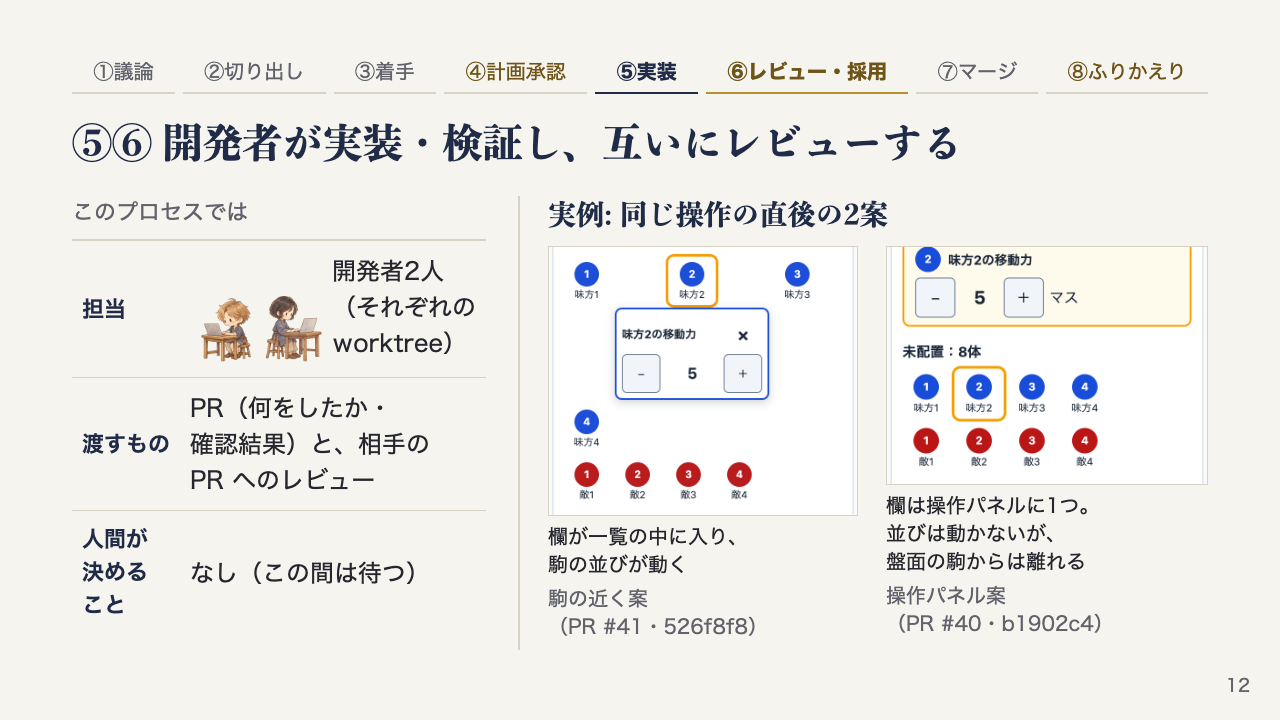
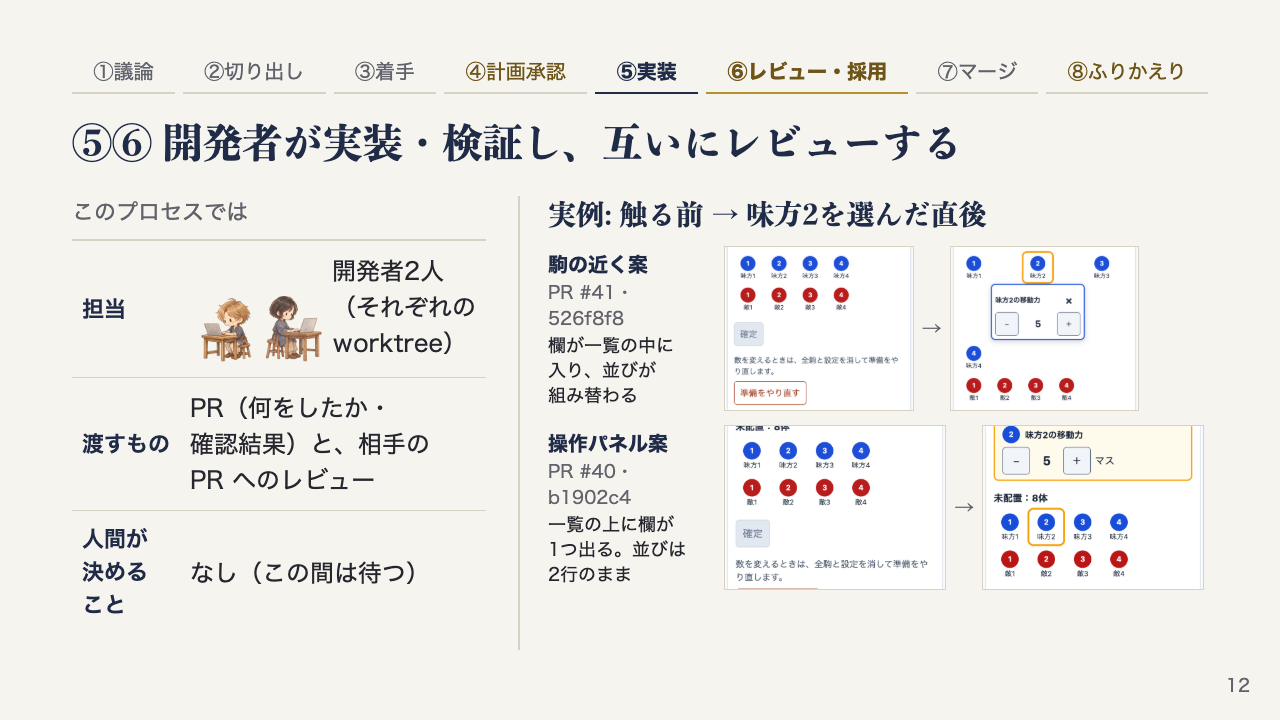
docs: add before-selection screenshots to the comparison on slide 12 (#17)

Changed region(s): [[0.4062, 0.275, 0.9375, 0.8861], [0.9062, 0.6417, 0.9375, 0.6722], [0.9062, 0.3361, 0.9375, 0.3667]]

diff --git a/themes/paper.css b/themes/paper.css
@@ -350,3 +350,11 @@ table.duty.loop td { padding: 9px 10px; }
 table.duty.loop tr.decide td { font-size: 22px; }
 table.duty.loop b { color: var(--indigo); }
 table.duty.loop tr.decide b { color: var(--gold-text); }
+/* 2案の「触る前 → 選んだ直後」を案ごとに1行で並べる（12枚目）。左に案名・版・違いの説明、右に前後の画像 */
+.shots.phone.pair { flex-direction: column; gap: 14px; }
+.shots.phone.pair .shot { display: flex; align-items: center; gap: 8px; }
+.shots.phone.pair .shot > div { flex: 0 0 168px; }
+.shots.phone.pair .shot p { font-size: 18px; margin-top: 2px; }
+.shots.phone.pair .shot .name { font-size: 20px; font-weight: 700; color: var(--indigo); }
+.shots.phone.pair img { flex: none; height: 165px; width: auto; max-height: none; }
+.shots.phone.pair .arrow { flex: none; align-self: center; width: 20px; padding: 0; color: var(--muted); font-size: 20px; }

diff --git a/docs/design.md b/docs/design.md
@@ -111,7 +111,7 @@ paginate: true
 - **担当の人物**: `<div class="actors">` の中に `<div class="actor">`（`<img class="actor-figure">` 72×72px と `<span class="actor-name">`）。開発者は `actor-figure` を2つ続ける。人間（レナ・ヨナ）は `<img class="people-small">`（120×80px、3:2）。金色を役割の人物の行に使わないため、人間の挿絵は担当の行か判断の行（`decide`）に置き、役割の人物は判断の行に置かない
 - **人物にしない仕組み**: 3つの役割に含めない仕組み（GitHub・Orca の起動係）は、担当の行に `<div class="actor-box">` の文字の枠で置く（1行目に名前、`<span>` に短い補足）。人物の絵やロゴは使わない（10枚目: PO → GitHub（Issue と「開発可」）→ Orca の起動係（定期実行で起動）→ 開発チーム。Issue #17 で追加）
 - **比較画像**: `<div class="shots">` に `<div class="shot">`（`<img>` と説明 `<p>`、版 `<p class="ver">`）。画像の中の文字は読ませず、違いを説明文で書く
-- **スマホ幅の画面**: 縦長の画面の切り抜きは `<div class="shots phone">` にする（16:9 の枠に押し込まず、縦横比のまま高さ 270px までで収める）。本文の下に小さく置くときは `shots phone short`（高さ 200px まで、説明を画像の右に並べる。説明と版は `<div>` で包む。7枚目）。比較画像を大きく見せるページだけ、右の列を `<div class="example wide">`（660px）にする（12枚目。各画像は幅約307px、左の表は約440px）。Issue #17 で追加
+- **スマホ幅の画面**: 縦長の画面の切り抜きは `<div class="shots phone">` にする（16:9 の枠に押し込まず、縦横比のまま高さ 270px までで収める）。本文の下に小さく置くときは `shots phone short`（高さ 200px まで、説明を画像の右に並べる。説明と版は `<div>` で包む。7枚目）。比較画像を大きく見せるページだけ、右の列を `<div class="example wide">`（660px）にする。案ごとに「触る前 → 選んだ直後」を並べるときは `shots phone pair` にし、`.shot` の中に説明（`<div>` に案名 `<p class="name">`・版 `<p class="ver">`・違いの説明 `<p>`）、前の画像、`<span class="arrow">→</span>`、後の画像の順に書く（1案が1行。画像の高さは 165px にそろえる。12枚目: 1280×720 で右の列は幅690px、画像は駒の近く案 190×165px・操作パネル案 222×165px、左の表は幅410px、右の列の下端 590px）。Issue #17 で追加
 - **往復の表**: 1ページに6行の表が要るときは `<table class="duty loop">`。高さに収めるため 22px・上下 9px の余白にしている（13枚目。本文の下端の上限 664px に対し、Orca のブラウザで測ったページ内の下端は 720px 基準で 636px。Issue #17 の前提追加後）
 
 上部の段階の行と見出しで約 190px を使うので、表と実例の列に使える高さは約 470px（Issue #17 の前提追加後、9〜14枚目の下端の実測は 555〜650px。下端が最も下にあるのは12枚目）。項目を足したら手元の画像と CI の PDF で確かめる。
@@ -135,7 +135,7 @@ paginate: true
 |---|---|
 | [human-decisions.png](../slides/assets/issue-5-codex/human-decisions.png) | Issue #5 で新規生成し縮小した透過 PNG（記録は [説明書](design-samples/issue-5-codex.md)）。Issue #8 では本編5枚目からそのまま再利用し、Issue #9 では次章の工程のページ（Issue #17 の前提追加後の9・11・14枚目）に小さく（120×80px）再利用した。再生成・編集はしていない |
 | [issue-5-compare/](../slides/assets/issue-5-compare/) の3枚 | Issue #17 で次章の実例を差し替えたため、本編からは参照していない。#9 の比較記録として残す。Issue #9 で、次章の比較用に作った縮小画像。`pr6-c332c37-human.png`・`pr7-b3e0c3e-human.png` は、Issue #5 の各 PR の当時の版を `git archive` で取り出し、`npx marp --no-stdin --allow-local-files --images png` で元の5枚目（人間の判断のページ）を 1280×720 に描いた画像。`pr6-3480008-human.png` は採用修正版の記録 `docs/design-samples/issue-5-codex-preview/03-human.png`（同じ手順で 3480008 から描いた画像とバイト単位で一致）。どれも `sips -z 360 640` で 640×360 に縮小しただけ。ファイル名の SHA が版を示す |
-| [issue-37-board/](../slides/assets/issue-37-board/) の3枚 | Issue #17 で、次章の実例（overstrata-board #37）用に撮影した画面。公開リポジトリを一時ディレクトリへ新たに clone し、各版を git worktree で取り出して `npm ci --ignore-scripts` → `npx vite --port 5290〜5292 --strictPort` で起動した（Docker と元プロジェクトの作業環境は使っていない。撮影後に停止）。Playwright（同リポジトリの `@playwright/test` 1.64.1）とインストール済みの Chrome で、表示幅 375×667・deviceScaleFactor 2 で撮影し、範囲を切り抜いた。`board-c276d11.png`: #37 着手前の main `c276d11` で味方2・敵2を用意し、味方1を (3,4)・味方2を (2,7)・敵1を (8,3)・敵2を (9,6) に置いて味方1を選んだ状態の盤面（CSS px で x0・y105・375×351）。`pr41-526f8f8.png`・`pr40-b1902c4.png`: 比較した版（PR #41 `526f8f8`／PR #40 `b1902c4`）で味方4・敵4を用意し、未配置の味方2を選んだ直後。設定欄と未配置ボタンの外接矩形に余白12px（#41 は x12・y693・351×305。#40 は x12・y641・351×305 で撮り、下の確定ボタンが写らないよう `sips -c 520 702 --cropOffset 0 0` で上から 351×260 に切った）。縮小・注記・色付けはしていない。採用版 `629709a` は `b1902c4` との差分が README だけなので、別に撮っていない。ファイル名の SHA が版を示す |
+| [issue-37-board/](../slides/assets/issue-37-board/) の5枚 | Issue #17 で、次章の実例（overstrata-board #37）用に撮影した画面。公開リポジトリを一時ディレクトリへ新たに clone し、各版を git worktree で取り出して `npm ci --ignore-scripts` → `npx vite --port 5290〜5292 --strictPort` で起動した（Docker と元プロジェクトの作業環境は使っていない。撮影後に停止）。Playwright（同リポジトリの `@playwright/test` 1.64.1）とインストール済みの Chrome で、表示幅 375×667・deviceScaleFactor 2 で撮影し、範囲を切り抜いた。`board-c276d11.png`: #37 着手前の main `c276d11` で味方2・敵2を用意し、味方1を (3,4)・味方2を (2,7)・敵1を (8,3)・敵2を (9,6) に置いて味方1を選んだ状態の盤面（CSS px で x0・y105・375×351）。`pr41-526f8f8.png`・`pr40-b1902c4.png`: 比較した版（PR #41 `526f8f8`／PR #40 `b1902c4`）で味方4・敵4を用意し、未配置の味方2を選んだ直後。設定欄と未配置ボタンの外接矩形に余白12px（#41 は x12・y693・351×305。#40 は x12・y641・351×305 で撮り、下の確定ボタンが写らないよう `sips -c 520 702 --cropOffset 0 0` で上から 351×260 に切った）。縮小・注記・色付けはしていない。`pr41-526f8f8-before.png`・`pr40-b1902c4-before.png`: 同じ版で味方4・敵4を用意した直後（まだ駒を選んでいない）。Issue #17 の実機確認で人間が「駒を触る前の画像もあるとわかりやすい」と伝えたため追加した。公開リポジトリを一時ディレクトリへ新たに clone し直し、同じ手順（`npm ci --ignore-scripts`、`npx vite --port 5290`・`5291 --strictPort`、同じ Playwright・Chrome・表示幅）で撮った。切り抜きは選んだ直後と同じ矩形（#41 は x12・y693・351×305、#40 は x12・y641・351×305 から `sips` で上の 351×260）。このとき撮り直した選んだ直後の2枚は、既存の2枚と画素が一致したので、既存のファイルをそのまま使っている。採用版 `629709a` は `b1902c4` との差分が README だけなので、別に撮っていない。ファイル名の SHA が版を示す |
 | [roles/po.png](../slides/assets/roles/po.png)・[team.png](../slides/assets/roles/team.png)・[developer-1.png](../slides/assets/roles/developer-1.png)・[developer-2.png](../slides/assets/roles/developer-2.png) | Issue #12 で新規生成した透過 PNG。生成は Codex CLI の組み込み画像生成（`codex exec` の `$imagegen`、2026-10-28）で、画風の参照に human-decisions.png、人物をそろえる参照に先に作った po.png（開発者2人目は developer-1.png も）を渡した。team.png は同じ生成の中で Codex が右手の位置を直している。編集は macOS の `sips -z 400 400` による 1254×1254 から 400×400 への縮小だけ（1:1 と透過を保持） |
 
 ## 役割の人物

diff --git a/slides/index.md b/slides/index.md
@@ -536,17 +536,27 @@ overstrata-board の実例:
     </table>
   </div>
   <div class="example wide">
-    <h3>実例: 同じ操作の直後の2案</h3>
-    <div class="shots phone">
+    <h3>実例: 触る前 → 味方2を選んだ直後</h3>
+    <div class="shots phone pair">
       <div class="shot">
-        <img src="assets/issue-37-board/pr41-526f8f8.png" alt="駒の近く案の画面。未配置の駒の一覧で味方2を選ぶと、一覧の中に移動力の設定欄が入り、味方4が次の行へ押し出されている">
-        <p>欄が一覧の中に入り、<br>駒の並びが動く</p>
-        <p class="ver">駒の近く案<br>（PR #41・526f8f8）</p>
+        <div>
+          <p class="name">駒の近く案</p>
+          <p class="ver">PR #41・<br>526f8f8</p>
+          <p>欄が一覧の中に<br>入り、並びが<br>組み替わる</p>
+        </div>
+        <img src="assets/issue-37-board/pr41-526f8f8-before.png" alt="駒の近く案の、駒を選ぶ前の画面。未配置の駒が味方4つ・敵4つの2行に並んでいる">
+        <span class="arrow">→</span>
+        <img src="assets/issue-37-board/pr41-526f8f8.png" alt="駒の近く案の、味方2を選んだ直後の画面。一覧の中に移動力の設定欄が入り、味方4が次の行へ押し出されている">
       </div>
       <div class="shot">
-        <img src="assets/issue-37-board/pr40-b1902c4.png" alt="操作パネル案の画面。一覧の上に移動力の設定欄が1つ出て、未配置の駒の並びは2行のまま変わらない">
-        <p>欄は操作パネルに1つ。<br>並びは動かないが、<br>盤面の駒からは離れる</p>
-        <p class="ver">操作パネル案<br>（PR #40・b1902c4）</p>
+        <div>
+          <p class="name">操作パネル案</p>
+          <p class="ver">PR #40・<br>b1902c4</p>
+          <p>一覧の上に欄が<br>1つ出る。並びは<br>2行のまま</p>
+        </div>
+        <img src="assets/issue-37-board/pr40-b1902c4-before.png" alt="操作パネル案の、駒を選ぶ前の画面。未配置の駒が味方4つ・敵4つの2行に並んでいる">
+        <span class="arrow">→</span>
+        <img src="assets/issue-37-board/pr40-b1902c4.png" alt="操作パネル案の、味方2を選んだ直後の画面。一覧の上に移動力の設定欄が1つ出て、未配置の駒の並びは2行のまま変わらない">
       </div>
     </div>
   </div>
@@ -557,8 +567,8 @@ overstrata-board の実例:
 ⑤ 実装では、開発者が自分の worktree で計画どおりに作り、確認コマンドを通して PR を出します。GitHub Actions でも同じ確認が回ります。この間、人間は待っています。
 ⑥ レビューでは、開発者2人が互いの PR を、受け入れ条件・仕様・回帰の観点でレビューします。
 今回は同じ Issue を2人が別々に作る「二重実装」で進めました。元テンプレートでは任意の進め方で、1本だけ実装する方法もあります。
-右は、2つの PR で同じ操作をした直後の画面です。駒を味方4・敵4で用意し、未配置の一覧で「味方2」を選びました。画像の中の文字は読まなくて大丈夫です。
-左の駒の近く案では、設定欄が一覧の中に入るので、駒の並びが組み替わり、味方4が次の行へ押し出されます。右の操作パネル案では、欄は一覧の上に1つ出て、並びは変わりません。その代わり、盤面に置いた駒からは離れます。
+右は、2つの PR で同じ操作をした前後の画面です。上の行が駒の近く案、下の行が操作パネル案で、それぞれ左が駒を触る前、右が未配置の一覧で「味方2」を選んだ直後です。触る前は、どちらも味方4つ・敵4つが2行に並んでいます。画像の中の文字は読まなくて大丈夫です。
+駒の近く案では、選ぶと設定欄が一覧の中に入るので、駒の並びが組み替わり、味方4が次の行へ押し出されます。操作パネル案では、欄は一覧の上に1つ出て、一覧は全体が下へずれますが、4つずつ2行の並びは変わりません。その代わり、盤面に置いた駒からは離れます。
 
 【実例】
 - PR #41（駒の近く案、Codex）は head 526f8f8、PR #40（操作パネル案、Claude Code）は head b1902c4。どちらも確認コマンド・E2E・CI が成功した
@@ -567,9 +577,9 @@ overstrata-board の実例:
   - PR #41 は満たす。ただし、一覧の並びが組み替わって誤タップにつながる点と、盤面では欄が周りの18マスを覆う点が、推奨の指摘になった
 - この画像は比べた時点の版で、採用後の版ではありません。製品名は担当を示すだけで、モデルの優劣を比べたものではありません
 
-画像: overstrata-board の各版（PR #41 は 526f8f8、PR #40 は b1902c4）を手元で起動し、スマホ幅 375×667（2倍の解像度）で、味方4・敵4を用意して未配置の味方2を選んだ直後に撮影。設定欄と未配置一覧を囲む範囲（横351 CSS px、縦は PR #41 が305・PR #40 が260）を切り抜いただけで、注記や色付けはしていない。
+画像: overstrata-board の各版（PR #41 は 526f8f8、PR #40 は b1902c4）を手元で起動し、スマホ幅 375×667（2倍の解像度）で撮影。各案2枚で、「触る前」は味方4・敵4を用意した直後（まだ駒を選んでいない）、「選んだ直後」はそこから未配置の味方2を選んだ直後。切り抜く範囲は、選んだ直後の設定欄と未配置一覧を囲む範囲（横351 CSS px、縦は PR #41 が305・PR #40 が260）で、触る前も同じ範囲で切り抜いた。そのため操作パネル案の触る前の画像は、一覧が上にある分、上端で「未配置：8体」の見出しが切れ、下に確定ボタンと説明文が写る。切り抜いただけで、注記や色付けはしていない。触る前の2枚は Issue #17 の実機確認（人間の「駒を触る前の画像もあるとわかりやすい」）を受けて追加した。
 
-【時間】約60秒（見積もり）
+【時間】約75秒（見積もり。触る前の画像の説明で60秒から増やした）
 
 【出典】
 一般的な手順:

diff --git a/docs/sources.md b/docs/sources.md
@@ -60,7 +60,7 @@ Issue #9 で採用した次章（main `19656aa`）は、元テンプレートの
 - [条件変更のコメント](https://github.com/dyamada-jaki/overstrata-board/issues/37#issuecomment-6365106903)と [仕様更新 `3bac3e9`](https://github.com/dyamada-jaki/overstrata-board/commit/3bac3e9ed1b884765a3519157b634c1bb128e2e3): 人間の原文と条件3の変更。現行 Issue 本文だけで変更前の条件を推測しない。
 - [当初の PO 受け入れ（#41）](https://github.com/dyamada-jaki/overstrata-board/pull/41#issuecomment-6364548520)、[再レビュー（#40）](https://github.com/dyamada-jaki/overstrata-board/pull/40#issuecomment-6365375650)、[推薦変更](https://github.com/dyamada-jaki/overstrata-board/pull/40#issuecomment-6365395577)、[変更後の PO 受け入れ](https://github.com/dyamada-jaki/overstrata-board/pull/40#issuecomment-6365485501)、[実機確認の記録](https://github.com/dyamada-jaki/overstrata-board/pull/40#issuecomment-6365962809)。レポートと合わせ、発表ノートで対応付ける。
 - [採用コミット `e3311d4`](https://github.com/dyamada-jaki/overstrata-board/commit/e3311d43c6f125adec76eafe0d683e6d62fa74bb)、[改善 F/G 反映 `9b7eae7`](https://github.com/dyamada-jaki/overstrata-board/commit/9b7eae763cfc199080f09653f65c31a1cf01e072)、[完了と申し送り](https://github.com/dyamada-jaki/overstrata-board/issues/37#issuecomment-6366665330)。後の Issue の成果をこの時点での効果として混ぜない。
-- 画面の再現（Issue #17）: 7枚目は #37 着手前の main [`c276d11`](https://github.com/dyamada-jaki/overstrata-board/tree/c276d11e5da42c7664ffa41693d5c9cb762ac7d0)（#32 の PR #38 を取り込んだ版、全駒5マス固定）、12枚目は比較した版 `526f8f8`・`b1902c4` を、公開リポジトリの新しい clone で起動して撮影した。表示幅は 375×667（元の実機比較・レビューと同じスマホ幅）。操作と切り抜きは [design.md](design.md) の「画像の置き方」と各ページのノートに記録した。元プロジェクトの既存の clone・worktree・コンテナは使っていない。
+- 画面の再現（Issue #17）: 7枚目は #37 着手前の main [`c276d11`](https://github.com/dyamada-jaki/overstrata-board/tree/c276d11e5da42c7664ffa41693d5c9cb762ac7d0)（#32 の PR #38 を取り込んだ版、全駒5マス固定）、12枚目は比較した版 `526f8f8`・`b1902c4` を、公開リポジトリの新しい clone で起動して撮影した。表示幅は 375×667（元の実機比較・レビューと同じスマホ幅）。12枚目には、人間の実機確認を受けて各版の「触る前」（味方4・敵4を用意した直後）の画像を足し、「選んだ直後」と同じ範囲で切り抜いた（同じ手順で新しい clone から撮影）。操作と切り抜きは [design.md](design.md) の「画像の置き方」と各ページのノートに記録した。元プロジェクトの既存の clone・worktree・コンテナは使っていない。
 - 元プロジェクトの実際の修正順序と、このスライド制作で採用している手順を区別する。条件変更の判断は人間、仕様更新は PO、修正と検証・推薦は開発者／開発チーム、最終的な採用は人間である。画像再現の際も元プロジェクトは変更しない。
 
 ## 使い方
